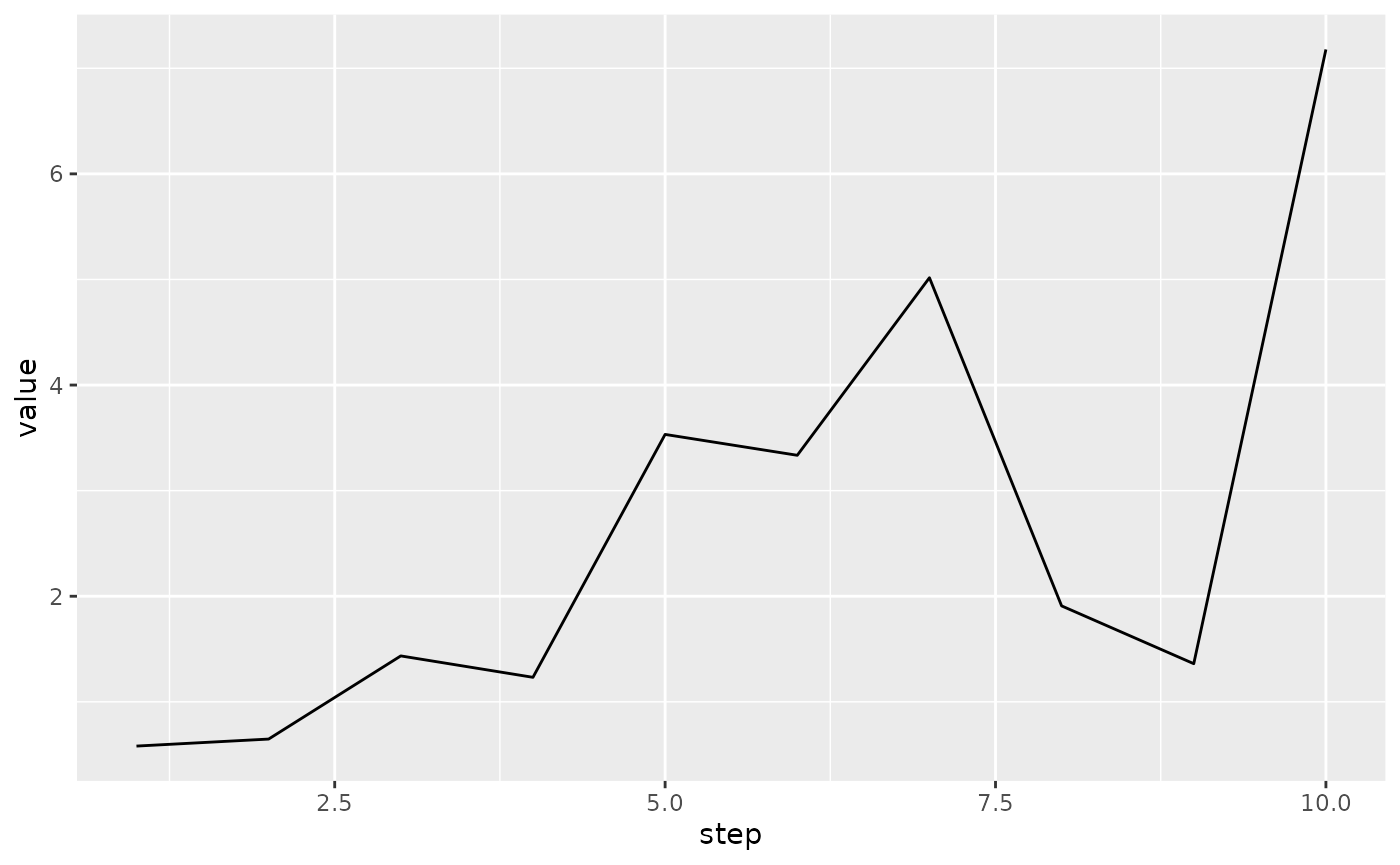
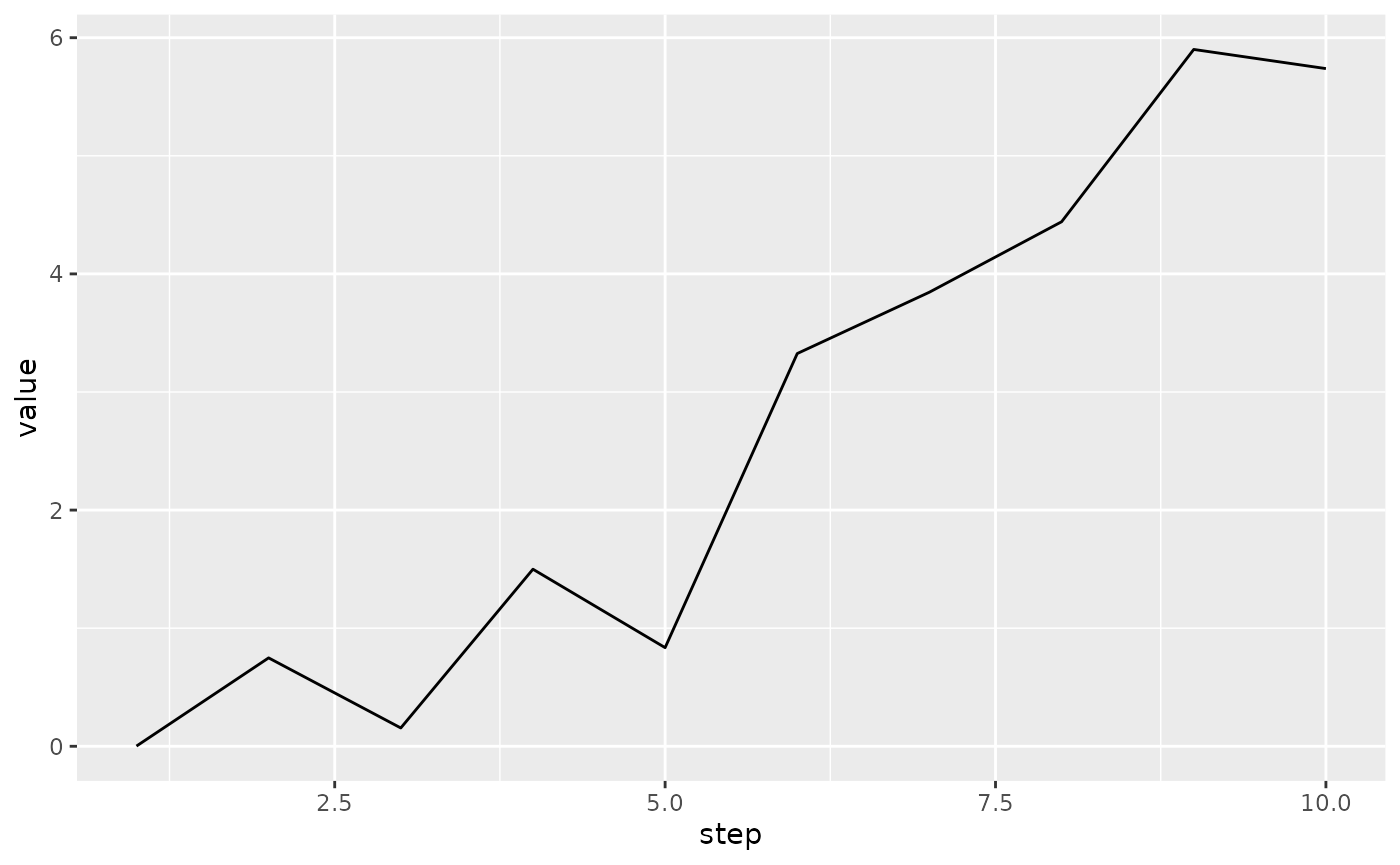
Deploying to gh-pages from @ mlverse/tfevents@44d94546bba93f44b7121c71480f31e4797dfe45 🚀

diff --git a/articles/read.html b/articles/read.html
@@ -178,52 +178,52 @@ matter the size of the summary_values vector that you pass.</p>
 <code class="sourceCode R"><span><span class="co"># we remove the first summary, as it's a text summary</span></span>
 <span><span class="fu"><a href="../reference/value.html">value</a></span><span class="op">(</span><span class="va">summaries</span><span class="op">$</span><span class="va">summary</span><span class="op">[</span><span class="op">-</span><span class="fl">1</span><span class="op">]</span>, as_list <span class="op">=</span> <span class="cn">TRUE</span><span class="op">)</span></span>
 <span><span class="co">#&gt; [[1]]</span></span>
-<span><span class="co">#&gt; [1] 0.5809893</span></span>
+<span><span class="co">#&gt; [1] 0.001632801</span></span>
 <span><span class="co">#&gt; </span></span>
 <span><span class="co">#&gt; [[2]]</span></span>
-<span><span class="co">#&gt; [1] 0.6474293</span></span>
+<span><span class="co">#&gt; [1] 0.7484521</span></span>
 <span><span class="co">#&gt; </span></span>
 <span><span class="co">#&gt; [[3]]</span></span>
-<span><span class="co">#&gt; [1] 1.434889</span></span>
+<span><span class="co">#&gt; [1] 0.155089</span></span>
 <span><span class="co">#&gt; </span></span>
 <span><span class="co">#&gt; [[4]]</span></span>
-<span><span class="co">#&gt; [1] 1.232181</span></span>
+<span><span class="co">#&gt; [1] 1.499293</span></span>
 <span><span class="co">#&gt; </span></span>
 <span><span class="co">#&gt; [[5]]</span></span>
-<span><span class="co">#&gt; [1] 3.532491</span></span>
+<span><span class="co">#&gt; [1] 0.8351706</span></span>
 <span><span class="co">#&gt; </span></span>
 <span><span class="co">#&gt; [[6]]</span></span>
-<span><span class="co">#&gt; [1] 3.334876</span></span>
+<span><span class="co">#&gt; [1] 3.32562</span></span>
 <span><span class="co">#&gt; </span></span>
 <span><span class="co">#&gt; [[7]]</span></span>
-<span><span class="co">#&gt; [1] 5.016222</span></span>
+<span><span class="co">#&gt; [1] 3.84518</span></span>
 <span><span class="co">#&gt; </span></span>
 <span><span class="co">#&gt; [[8]]</span></span>
-<span><span class="co">#&gt; [1] 1.908642</span></span>
+<span><span class="co">#&gt; [1] 4.44142</span></span>
 <span><span class="co">#&gt; </span></span>
 <span><span class="co">#&gt; [[9]]</span></span>
-<span><span class="co">#&gt; [1] 1.36121</span></span>
+<span><span class="co">#&gt; [1] 5.900636</span></span>
 <span><span class="co">#&gt; </span></span>
 <span><span class="co">#&gt; [[10]]</span></span>
-<span><span class="co">#&gt; [1] 7.178261</span></span></code></pre></div>
+<span><span class="co">#&gt; [1] 5.738484</span></span></code></pre></div>
 <p>If you are only interested in scalar summaries, you can use
 <code>type="scalar"</code> in <code>collect_events</code>:</p>
 <div class="sourceCode" id="cb8"><pre class="downlit sourceCode r">
 <code class="sourceCode R"><span><span class="va">scalars</span> <span class="op">&lt;-</span> <span class="fu"><a href="../reference/collect_events.html">collect_events</a></span><span class="op">(</span><span class="va">temp</span>, type <span class="op">=</span> <span class="st">"scalar"</span><span class="op">)</span></span>
 <span><span class="va">scalars</span></span>
 <span><span class="co">#&gt; <span style="color: #949494;"># A tibble: 10 × 7</span></span></span>
-<span><span class="co">#&gt;         event run    step    summary tag   plugin  value</span></span>
-<span><span class="co">#&gt;    <span style="color: #949494; font-style: italic;">&lt;tfvnts_v&gt;</span> <span style="color: #949494; font-style: italic;">&lt;chr&gt;</span> <span style="color: #949494; font-style: italic;">&lt;int&gt;</span> <span style="color: #949494; font-style: italic;">&lt;tfvnts__&gt;</span> <span style="color: #949494; font-style: italic;">&lt;chr&gt;</span> <span style="color: #949494; font-style: italic;">&lt;chr&gt;</span>   <span style="color: #949494; font-style: italic;">&lt;dbl&gt;</span></span></span>
-<span><span class="co">#&gt; <span style="color: #BCBCBC;"> 1</span>     &lt;./ 1&gt; .         1    &lt;hello&gt; hello scalars 0.581</span></span>
-<span><span class="co">#&gt; <span style="color: #BCBCBC;"> 2</span>     &lt;./ 2&gt; .         2    &lt;hello&gt; hello scalars 0.647</span></span>
-<span><span class="co">#&gt; <span style="color: #BCBCBC;"> 3</span>     &lt;./ 3&gt; .         3    &lt;hello&gt; hello scalars 1.43 </span></span>
-<span><span class="co">#&gt; <span style="color: #BCBCBC;"> 4</span>     &lt;./ 4&gt; .         4    &lt;hello&gt; hello scalars 1.23 </span></span>
-<span><span class="co">#&gt; <span style="color: #BCBCBC;"> 5</span>     &lt;./ 5&gt; .         5    &lt;hello&gt; hello scalars 3.53 </span></span>
-<span><span class="co">#&gt; <span style="color: #BCBCBC;"> 6</span>     &lt;./ 6&gt; .         6    &lt;hello&gt; hello scalars 3.33 </span></span>
-<span><span class="co">#&gt; <span style="color: #BCBCBC;"> 7</span>     &lt;./ 7&gt; .         7    &lt;hello&gt; hello scalars 5.02 </span></span>
-<span><span class="co">#&gt; <span style="color: #BCBCBC;"> 8</span>     &lt;./ 8&gt; .         8    &lt;hello&gt; hello scalars 1.91 </span></span>
-<span><span class="co">#&gt; <span style="color: #BCBCBC;"> 9</span>     &lt;./ 9&gt; .         9    &lt;hello&gt; hello scalars 1.36 </span></span>
-<span><span class="co">#&gt; <span style="color: #BCBCBC;">10</span>     &lt;./10&gt; .        10    &lt;hello&gt; hello scalars 7.18</span></span></code></pre></div>
+<span><span class="co">#&gt;         event run    step    summary tag   plugin    value</span></span>
+<span><span class="co">#&gt;    <span style="color: #949494; font-style: italic;">&lt;tfvnts_v&gt;</span> <span style="color: #949494; font-style: italic;">&lt;chr&gt;</span> <span style="color: #949494; font-style: italic;">&lt;int&gt;</span> <span style="color: #949494; font-style: italic;">&lt;tfvnts__&gt;</span> <span style="color: #949494; font-style: italic;">&lt;chr&gt;</span> <span style="color: #949494; font-style: italic;">&lt;chr&gt;</span>     <span style="color: #949494; font-style: italic;">&lt;dbl&gt;</span></span></span>
+<span><span class="co">#&gt; <span style="color: #BCBCBC;"> 1</span>     &lt;./ 1&gt; .         1    &lt;hello&gt; hello scalars 0.001<span style="text-decoration: underline;">63</span></span></span>
+<span><span class="co">#&gt; <span style="color: #BCBCBC;"> 2</span>     &lt;./ 2&gt; .         2    &lt;hello&gt; hello scalars 0.748  </span></span>
+<span><span class="co">#&gt; <span style="color: #BCBCBC;"> 3</span>     &lt;./ 3&gt; .         3    &lt;hello&gt; hello scalars 0.155  </span></span>
+<span><span class="co">#&gt; <span style="color: #BCBCBC;"> 4</span>     &lt;./ 4&gt; .         4    &lt;hello&gt; hello scalars 1.50   </span></span>
+<span><span class="co">#&gt; <span style="color: #BCBCBC;"> 5</span>     &lt;./ 5&gt; .         5    &lt;hello&gt; hello scalars 0.835  </span></span>
+<span><span class="co">#&gt; <span style="color: #BCBCBC;"> 6</span>     &lt;./ 6&gt; .         6    &lt;hello&gt; hello scalars 3.33   </span></span>
+<span><span class="co">#&gt; <span style="color: #BCBCBC;"> 7</span>     &lt;./ 7&gt; .         7    &lt;hello&gt; hello scalars 3.85   </span></span>
+<span><span class="co">#&gt; <span style="color: #BCBCBC;"> 8</span>     &lt;./ 8&gt; .         8    &lt;hello&gt; hello scalars 4.44   </span></span>
+<span><span class="co">#&gt; <span style="color: #BCBCBC;"> 9</span>     &lt;./ 9&gt; .         9    &lt;hello&gt; hello scalars 5.90   </span></span>
+<span><span class="co">#&gt; <span style="color: #BCBCBC;">10</span>     &lt;./10&gt; .        10    &lt;hello&gt; hello scalars 5.74</span></span></code></pre></div>
 <p>Now, values can be expanded in the data frame and you get a ready to
 use data frame, for example:</p>
 <div class="sourceCode" id="cb9"><pre class="downlit sourceCode r">
@@ -244,9 +244,9 @@ load events in smaller batches.</p>
 <code class="sourceCode R"><span><span class="va">con</span> <span class="op">&lt;-</span> <span class="fu"><a href="../reference/collect_events.html">events_logdir</a></span><span class="op">(</span><span class="va">temp</span><span class="op">)</span></span>
 <span><span class="fu"><a href="../reference/collect_events.html">collect_events</a></span><span class="op">(</span><span class="va">con</span>, n <span class="op">=</span> <span class="fl">1</span>, type <span class="op">=</span> <span class="st">"scalar"</span><span class="op">)</span></span>
 <span><span class="co">#&gt; <span style="color: #949494;"># A tibble: 1 × 7</span></span></span>
-<span><span class="co">#&gt;        event run    step    summary tag   plugin  value</span></span>
-<span><span class="co">#&gt;   <span style="color: #949494; font-style: italic;">&lt;tfvnts_v&gt;</span> <span style="color: #949494; font-style: italic;">&lt;chr&gt;</span> <span style="color: #949494; font-style: italic;">&lt;int&gt;</span> <span style="color: #949494; font-style: italic;">&lt;tfvnts__&gt;</span> <span style="color: #949494; font-style: italic;">&lt;chr&gt;</span> <span style="color: #949494; font-style: italic;">&lt;chr&gt;</span>   <span style="color: #949494; font-style: italic;">&lt;dbl&gt;</span></span></span>
-<span><span class="co">#&gt; <span style="color: #BCBCBC;">1</span>      &lt;./1&gt; .         1    &lt;hello&gt; hello scalars 0.581</span></span></code></pre></div>
+<span><span class="co">#&gt;        event run    step    summary tag   plugin    value</span></span>
+<span><span class="co">#&gt;   <span style="color: #949494; font-style: italic;">&lt;tfvnts_v&gt;</span> <span style="color: #949494; font-style: italic;">&lt;chr&gt;</span> <span style="color: #949494; font-style: italic;">&lt;int&gt;</span> <span style="color: #949494; font-style: italic;">&lt;tfvnts__&gt;</span> <span style="color: #949494; font-style: italic;">&lt;chr&gt;</span> <span style="color: #949494; font-style: italic;">&lt;chr&gt;</span>     <span style="color: #949494; font-style: italic;">&lt;dbl&gt;</span></span></span>
+<span><span class="co">#&gt; <span style="color: #BCBCBC;">1</span>      &lt;./1&gt; .         1    &lt;hello&gt; hello scalars 0.001<span style="text-decoration: underline;">63</span></span></span></code></pre></div>
 <p>Notice that the first call to <code>collect_events</code> collected
 the first scalar summary event in the directory because of
 <code>n = 1</code>. The next call will collect the remaining ones as by
@@ -256,15 +256,15 @@ default <code>n = NULL</code>.</p>
 <span><span class="co">#&gt; <span style="color: #949494;"># A tibble: 9 × 7</span></span></span>
 <span><span class="co">#&gt;        event run    step    summary tag   plugin  value</span></span>
 <span><span class="co">#&gt;   <span style="color: #949494; font-style: italic;">&lt;tfvnts_v&gt;</span> <span style="color: #949494; font-style: italic;">&lt;chr&gt;</span> <span style="color: #949494; font-style: italic;">&lt;int&gt;</span> <span style="color: #949494; font-style: italic;">&lt;tfvnts__&gt;</span> <span style="color: #949494; font-style: italic;">&lt;chr&gt;</span> <span style="color: #949494; font-style: italic;">&lt;chr&gt;</span>   <span style="color: #949494; font-style: italic;">&lt;dbl&gt;</span></span></span>
-<span><span class="co">#&gt; <span style="color: #BCBCBC;">1</span>     &lt;./ 2&gt; .         2    &lt;hello&gt; hello scalars 0.647</span></span>
-<span><span class="co">#&gt; <span style="color: #BCBCBC;">2</span>     &lt;./ 3&gt; .         3    &lt;hello&gt; hello scalars 1.43 </span></span>
-<span><span class="co">#&gt; <span style="color: #BCBCBC;">3</span>     &lt;./ 4&gt; .         4    &lt;hello&gt; hello scalars 1.23 </span></span>
-<span><span class="co">#&gt; <span style="color: #BCBCBC;">4</span>     &lt;./ 5&gt; .         5    &lt;hello&gt; hello scalars 3.53 </span></span>
+<span><span class="co">#&gt; <span style="color: #BCBCBC;">1</span>     &lt;./ 2&gt; .         2    &lt;hello&gt; hello scalars 0.748</span></span>
+<span><span class="co">#&gt; <span style="color: #BCBCBC;">2</span>     &lt;./ 3&gt; .         3    &lt;hello&gt; hello scalars 0.155</span></span>
+<span><span class="co">#&gt; <span style="color: #BCBCBC;">3</span>     &lt;./ 4&gt; .         4    &lt;hello&gt; hello scalars 1.50 </span></span>
+<span><span class="co">#&gt; <span style="color: #BCBCBC;">4</span>     &lt;./ 5&gt; .         5    &lt;hello&gt; hello scalars 0.835</span></span>
 <span><span class="co">#&gt; <span style="color: #BCBCBC;">5</span>     &lt;./ 6&gt; .         6    &lt;hello&gt; hello scalars 3.33 </span></span>
-<span><span class="co">#&gt; <span style="color: #BCBCBC;">6</span>     &lt;./ 7&gt; .         7    &lt;hello&gt; hello scalars 5.02 </span></span>
-<span><span class="co">#&gt; <span style="color: #BCBCBC;">7</span>     &lt;./ 8&gt; .         8    &lt;hello&gt; hello scalars 1.91 </span></span>
-<span><span class="co">#&gt; <span style="color: #BCBCBC;">8</span>     &lt;./ 9&gt; .         9    &lt;hello&gt; hello scalars 1.36 </span></span>
-<span><span class="co">#&gt; <span style="color: #BCBCBC;">9</span>     &lt;./10&gt; .        10    &lt;hello&gt; hello scalars 7.18</span></span></code></pre></div>
+<span><span class="co">#&gt; <span style="color: #BCBCBC;">6</span>     &lt;./ 7&gt; .         7    &lt;hello&gt; hello scalars 3.85 </span></span>
+<span><span class="co">#&gt; <span style="color: #BCBCBC;">7</span>     &lt;./ 8&gt; .         8    &lt;hello&gt; hello scalars 4.44 </span></span>
+<span><span class="co">#&gt; <span style="color: #BCBCBC;">8</span>     &lt;./ 9&gt; .         9    &lt;hello&gt; hello scalars 5.90 </span></span>
+<span><span class="co">#&gt; <span style="color: #BCBCBC;">9</span>     &lt;./10&gt; .        10    &lt;hello&gt; hello scalars 5.74</span></span></code></pre></div>
 <p>We can now log some more scalars and recollect, you will see that the
 events that were just written are now collected.</p>
 <div class="sourceCode" id="cb12"><pre class="downlit sourceCode r">
@@ -275,9 +275,9 @@ events that were just written are now collected.</p>
 <span><span class="co">#&gt; <span style="color: #949494;"># A tibble: 3 × 7</span></span></span>
 <span><span class="co">#&gt;        event run    step    summary tag   plugin  value</span></span>
 <span><span class="co">#&gt;   <span style="color: #949494; font-style: italic;">&lt;tfvnts_v&gt;</span> <span style="color: #949494; font-style: italic;">&lt;chr&gt;</span> <span style="color: #949494; font-style: italic;">&lt;int&gt;</span> <span style="color: #949494; font-style: italic;">&lt;tfvnts__&gt;</span> <span style="color: #949494; font-style: italic;">&lt;chr&gt;</span> <span style="color: #949494; font-style: italic;">&lt;chr&gt;</span>   <span style="color: #949494; font-style: italic;">&lt;dbl&gt;</span></span></span>
-<span><span class="co">#&gt; <span style="color: #BCBCBC;">1</span>     &lt;./11&gt; .        11    &lt;hello&gt; hello scalars 0.770</span></span>
-<span><span class="co">#&gt; <span style="color: #BCBCBC;">2</span>     &lt;./12&gt; .        12    &lt;hello&gt; hello scalars 0.785</span></span>
-<span><span class="co">#&gt; <span style="color: #BCBCBC;">3</span>     &lt;./13&gt; .        13    &lt;hello&gt; hello scalars 0.629</span></span></code></pre></div>
+<span><span class="co">#&gt; <span style="color: #BCBCBC;">1</span>     &lt;./11&gt; .        11    &lt;hello&gt; hello scalars 0.539</span></span>
+<span><span class="co">#&gt; <span style="color: #BCBCBC;">2</span>     &lt;./12&gt; .        12    &lt;hello&gt; hello scalars 0.162</span></span>
+<span><span class="co">#&gt; <span style="color: #BCBCBC;">3</span>     &lt;./13&gt; .        13    &lt;hello&gt; hello scalars 2.82</span></span></code></pre></div>
 <p>This interface allows you to efficiently read tfevents records
 without having them all on RAM at once, or work in a streaming way in a
 sense that a process might be writing tfevents (for example in a

diff --git a/articles/hparams.html b/articles/hparams.html
@@ -197,80 +197,80 @@ sets of hyperparameters.</p>
 <code>temp</code> will be filled with event files.</p>
 <div class="sourceCode" id="cb7"><pre class="downlit sourceCode r">
 <code class="sourceCode R"><span><span class="fu">fs</span><span class="fu">::</span><span class="fu"><a href="https://fs.r-lib.org/reference/dir_tree.html" class="external-link">dir_tree</a></span><span class="op">(</span><span class="va">temp</span><span class="op">)</span></span>
-<span><span class="co">#&gt; <span style="color: #0000BB; font-weight: bold;">/tmp/RtmpHjZciD/logdir1a6936c532d</span></span></span>
-<span><span class="co">#&gt; ├── <span style="color: #0000BB; font-weight: bold;">ballggycqmbbayz</span></span></span>
-<span><span class="co">#&gt; │   ├── events.out.tfevents.1677748114.v2</span></span>
+<span><span class="co">#&gt; <span style="color: #0000BB; font-weight: bold;">/tmp/RtmpNZwuXs/logdir1b484742769b</span></span></span>
+<span><span class="co">#&gt; ├── <span style="color: #0000BB; font-weight: bold;">bulwbjqdtyzjioj</span></span></span>
+<span><span class="co">#&gt; │   ├── events.out.tfevents.1678202326.v2</span></span>
 <span><span class="co">#&gt; │   ├── <span style="color: #0000BB; font-weight: bold;">train</span></span></span>
-<span><span class="co">#&gt; │   │   └── events.out.tfevents.1677748114.v2</span></span>
+<span><span class="co">#&gt; │   │   └── events.out.tfevents.1678202326.v2</span></span>
 <span><span class="co">#&gt; │   └── <span style="color: #0000BB; font-weight: bold;">valid</span></span></span>
-<span><span class="co">#&gt; │       └── events.out.tfevents.1677748114.v2</span></span>
-<span><span class="co">#&gt; ├── <span style="color: #0000BB; font-weight: bold;">dqmiqksmjxnaqnr</span></span></span>
-<span><span class="co">#&gt; │   ├── events.out.tfevents.1677748113.v2</span></span>
+<span><span class="co">#&gt; │       └── events.out.tfevents.1678202326.v2</span></span>
+<span><span class="co">#&gt; ├── <span style="color: #0000BB; font-weight: bold;">bvwgvcvjmkcoufp</span></span></span>
+<span><span class="co">#&gt; │   ├── events.out.tfevents.1678202326.v2</span></span>
 <span><span class="co">#&gt; │   ├── <span style="color: #0000BB; font-weight: bold;">train</span></span></span>
-<span><span class="co">#&gt; │   │   └── events.out.tfevents.1677748113.v2</span></span>
+<span><span class="co">#&gt; │   │   └── events.out.tfevents.1678202326.v2</span></span>
 <span><span class="co">#&gt; │   └── <span style="color: #0000BB; font-weight: bold;">valid</span></span></span>
-<span><span class="co">#&gt; │       └── events.out.tfevents.1677748113.v2</span></span>
-<span><span class="co">#&gt; ├── events.out.tfevents.1677748112.v2</span></span>
-<span><span class="co">#&gt; ├── <span style="color: #0000BB; font-weight: bold;">fcwxtfrtdmqofeg</span></span></span>
-<span><span class="co">#&gt; │   ├── events.out.tfevents.1677748114.v2</span></span>
+<span><span class="co">#&gt; │       └── events.out.tfevents.1678202326.v2</span></span>
+<span><span class="co">#&gt; ├── <span style="color: #0000BB; font-weight: bold;">dkvetxhhcgvmezv</span></span></span>
+<span><span class="co">#&gt; │   ├── events.out.tfevents.1678202327.v2</span></span>
 <span><span class="co">#&gt; │   ├── <span style="color: #0000BB; font-weight: bold;">train</span></span></span>
-<span><span class="co">#&gt; │   │   └── events.out.tfevents.1677748114.v2</span></span>
+<span><span class="co">#&gt; │   │   └── events.out.tfevents.1678202327.v2</span></span>
 <span><span class="co">#&gt; │   └── <span style="color: #0000BB; font-weight: bold;">valid</span></span></span>
-<span><span class="co">#&gt; │       └── events.out.tfevents.1677748114.v2</span></span>
-<span><span class="co">#&gt; ├── <span style="color: #0000BB; font-weight: bold;">fjzdzbfmulwoxxc</span></span></span>
-<span><span class="co">#&gt; │   ├── events.out.tfevents.1677748113.v2</span></span>
+<span><span class="co">#&gt; │       └── events.out.tfevents.1678202327.v2</span></span>
+<span><span class="co">#&gt; ├── events.out.tfevents.1678202325.v2</span></span>
+<span><span class="co">#&gt; ├── <span style="color: #0000BB; font-weight: bold;">fewfcpbsdbyckqb</span></span></span>
+<span><span class="co">#&gt; │   ├── events.out.tfevents.1678202325.v2</span></span>
 <span><span class="co">#&gt; │   ├── <span style="color: #0000BB; font-weight: bold;">train</span></span></span>
-<span><span class="co">#&gt; │   │   └── events.out.tfevents.1677748113.v2</span></span>
+<span><span class="co">#&gt; │   │   └── events.out.tfevents.1678202325.v2</span></span>
 <span><span class="co">#&gt; │   └── <span style="color: #0000BB; font-weight: bold;">valid</span></span></span>
-<span><span class="co">#&gt; │       └── events.out.tfevents.1677748113.v2</span></span>
-<span><span class="co">#&gt; ├── <span style="color: #0000BB; font-weight: bold;">lheunooutynlrfh</span></span></span>
-<span><span class="co">#&gt; │   ├── events.out.tfevents.1677748112.v2</span></span>
+<span><span class="co">#&gt; │       └── events.out.tfevents.1678202325.v2</span></span>
+<span><span class="co">#&gt; ├── <span style="color: #0000BB; font-weight: bold;">gccyuvniaofrfyg</span></span></span>
+<span><span class="co">#&gt; │   ├── events.out.tfevents.1678202325.v2</span></span>
 <span><span class="co">#&gt; │   ├── <span style="color: #0000BB; font-weight: bold;">train</span></span></span>
-<span><span class="co">#&gt; │   │   └── events.out.tfevents.1677748112.v2</span></span>
+<span><span class="co">#&gt; │   │   └── events.out.tfevents.1678202325.v2</span></span>
 <span><span class="co">#&gt; │   └── <span style="color: #0000BB; font-weight: bold;">valid</span></span></span>
-<span><span class="co">#&gt; │       └── events.out.tfevents.1677748112.v2</span></span>
-<span><span class="co">#&gt; ├── <span style="color: #0000BB; font-weight: bold;">mxlibjykjgkyyrf</span></span></span>
-<span><span class="co">#&gt; │   ├── events.out.tfevents.1677748112.v2</span></span>
+<span><span class="co">#&gt; │       └── events.out.tfevents.1678202325.v2</span></span>
+<span><span class="co">#&gt; ├── <span style="color: #0000BB; font-weight: bold;">hcghfwtvmtiszzt</span></span></span>
+<span><span class="co">#&gt; │   ├── events.out.tfevents.1678202325.v2</span></span>
 <span><span class="co">#&gt; │   ├── <span style="color: #0000BB; font-weight: bold;">train</span></span></span>
-<span><span class="co">#&gt; │   │   └── events.out.tfevents.1677748112.v2</span></span>
+<span><span class="co">#&gt; │   │   └── events.out.tfevents.1678202325.v2</span></span>
 <span><span class="co">#&gt; │   └── <span style="color: #0000BB; font-weight: bold;">valid</span></span></span>
-<span><span class="co">#&gt; │       └── events.out.tfevents.1677748112.v2</span></span>
-<span><span class="co">#&gt; ├── <span style="color: #0000BB; font-weight: bold;">orkivwpymrkepbm</span></span></span>
-<span><span class="co">#&gt; │   ├── events.out.tfevents.1677748113.v2</span></span>
+<span><span class="co">#&gt; │       └── events.out.tfevents.1678202325.v2</span></span>
+<span><span class="co">#&gt; ├── <span style="color: #0000BB; font-weight: bold;">kskdggiokbitjoh</span></span></span>
+<span><span class="co">#&gt; │   ├── events.out.tfevents.1678202327.v2</span></span>
 <span><span class="co">#&gt; │   ├── <span style="color: #0000BB; font-weight: bold;">train</span></span></span>
-<span><span class="co">#&gt; │   │   └── events.out.tfevents.1677748113.v2</span></span>
+<span><span class="co">#&gt; │   │   └── events.out.tfevents.1678202327.v2</span></span>
 <span><span class="co">#&gt; │   └── <span style="color: #0000BB; font-weight: bold;">valid</span></span></span>
-<span><span class="co">#&gt; │       └── events.out.tfevents.1677748113.v2</span></span>
-<span><span class="co">#&gt; ├── <span style="color: #0000BB; font-weight: bold;">plizizgodwuzagm</span></span></span>
-<span><span class="co">#&gt; │   ├── events.out.tfevents.1677748114.v2</span></span>
+<span><span class="co">#&gt; │       └── events.out.tfevents.1678202327.v2</span></span>
+<span><span class="co">#&gt; ├── <span style="color: #0000BB; font-weight: bold;">owwyzahluepbivk</span></span></span>
+<span><span class="co">#&gt; │   ├── events.out.tfevents.1678202325.v2</span></span>
 <span><span class="co">#&gt; │   ├── <span style="color: #0000BB; font-weight: bold;">train</span></span></span>
-<span><span class="co">#&gt; │   │   └── events.out.tfevents.1677748114.v2</span></span>
+<span><span class="co">#&gt; │   │   └── events.out.tfevents.1678202325.v2</span></span>
 <span><span class="co">#&gt; │   └── <span style="color: #0000BB; font-weight: bold;">valid</span></span></span>
-<span><span class="co">#&gt; │       └── events.out.tfevents.1677748114.v2</span></span>
-<span><span class="co">#&gt; ├── <span style="color: #0000BB; font-weight: bold;">qrztwahhwkczjbo</span></span></span>
-<span><span class="co">#&gt; │   ├── events.out.tfevents.1677748114.v2</span></span>
+<span><span class="co">#&gt; │       └── events.out.tfevents.1678202325.v2</span></span>
+<span><span class="co">#&gt; ├── <span style="color: #0000BB; font-weight: bold;">puwmvguaanhznio</span></span></span>
+<span><span class="co">#&gt; │   ├── events.out.tfevents.1678202326.v2</span></span>
 <span><span class="co">#&gt; │   ├── <span style="color: #0000BB; font-weight: bold;">train</span></span></span>
-<span><span class="co">#&gt; │   │   └── events.out.tfevents.1677748114.v2</span></span>
+<span><span class="co">#&gt; │   │   └── events.out.tfevents.1678202326.v2</span></span>
 <span><span class="co">#&gt; │   └── <span style="color: #0000BB; font-weight: bold;">valid</span></span></span>
-<span><span class="co">#&gt; │       └── events.out.tfevents.1677748114.v2</span></span>
-<span><span class="co">#&gt; ├── <span style="color: #0000BB; font-weight: bold;">xpruqozgfbpzjtm</span></span></span>
-<span><span class="co">#&gt; │   ├── events.out.tfevents.1677748113.v2</span></span>
+<span><span class="co">#&gt; │       └── events.out.tfevents.1678202326.v2</span></span>
+<span><span class="co">#&gt; ├── <span style="color: #0000BB; font-weight: bold;">uajwwwsqmbzaxxw</span></span></span>
+<span><span class="co">#&gt; │   ├── events.out.tfevents.1678202326.v2</span></span>
 <span><span class="co">#&gt; │   ├── <span style="color: #0000BB; font-weight: bold;">train</span></span></span>
-<span><span class="co">#&gt; │   │   └── events.out.tfevents.1677748113.v2</span></span>
+<span><span class="co">#&gt; │   │   └── events.out.tfevents.1678202326.v2</span></span>
 <span><span class="co">#&gt; │   └── <span style="color: #0000BB; font-weight: bold;">valid</span></span></span>
-<span><span class="co">#&gt; │       └── events.out.tfevents.1677748113.v2</span></span>
-<span><span class="co">#&gt; ├── <span style="color: #0000BB; font-weight: bold;">xxwmpuftujczeao</span></span></span>
-<span><span class="co">#&gt; │   ├── events.out.tfevents.1677748112.v2</span></span>
+<span><span class="co">#&gt; │       └── events.out.tfevents.1678202326.v2</span></span>
+<span><span class="co">#&gt; ├── <span style="color: #0000BB; font-weight: bold;">vhhoqzdtkjyefls</span></span></span>
+<span><span class="co">#&gt; │   ├── events.out.tfevents.1678202326.v2</span></span>
 <span><span class="co">#&gt; │   ├── <span style="color: #0000BB; font-weight: bold;">train</span></span></span>
-<span><span class="co">#&gt; │   │   └── events.out.tfevents.1677748112.v2</span></span>
+<span><span class="co">#&gt; │   │   └── events.out.tfevents.1678202326.v2</span></span>
 <span><span class="co">#&gt; │   └── <span style="color: #0000BB; font-weight: bold;">valid</span></span></span>
-<span><span class="co">#&gt; │       └── events.out.tfevents.1677748112.v2</span></span>
-<span><span class="co">#&gt; └── <span style="color: #0000BB; font-weight: bold;">ykbskrptvgaouyg</span></span></span>
-<span><span class="co">#&gt;     ├── events.out.tfevents.1677748113.v2</span></span>
+<span><span class="co">#&gt; │       └── events.out.tfevents.1678202326.v2</span></span>
+<span><span class="co">#&gt; └── <span style="color: #0000BB; font-weight: bold;">ydprwvapjrulmug</span></span></span>
+<span><span class="co">#&gt;     ├── events.out.tfevents.1678202327.v2</span></span>
 <span><span class="co">#&gt;     ├── <span style="color: #0000BB; font-weight: bold;">train</span></span></span>
-<span><span class="co">#&gt;     │   └── events.out.tfevents.1677748113.v2</span></span>
+<span><span class="co">#&gt;     │   └── events.out.tfevents.1678202327.v2</span></span>
 <span><span class="co">#&gt;     └── <span style="color: #0000BB; font-weight: bold;">valid</span></span></span>
-<span><span class="co">#&gt;         └── events.out.tfevents.1677748113.v2</span></span></code></pre></div>
+<span><span class="co">#&gt;         └── events.out.tfevents.1678202327.v2</span></span></code></pre></div>
 <p>Finally, we can visualize the experiment results in TensorBoard:</p>
 <div class="sourceCode" id="cb8"><pre class="downlit sourceCode r">
 <code class="sourceCode R"><span><span class="fu">tensorflow</span><span class="fu">::</span><span class="fu"><a href="https://rdrr.io/pkg/tensorflow/man/tensorboard.html" class="external-link">tensorboard</a></span><span class="op">(</span><span class="va">temp</span>, port <span class="op">=</span> <span class="fl">6060</span><span class="op">)</span></span>

diff --git a/reference/collect_events.html b/reference/collect_events.html
@@ -135,13 +135,13 @@ to read further events later.</p></li>
 <span class="r-in"><span><span class="co"># collect only scalar events</span></span></span>
 <span class="r-in"><span><span class="fu">collect_events</span><span class="op">(</span><span class="va">temp</span>, type <span class="op">=</span> <span class="st">"scalar"</span><span class="op">)</span></span></span>
 <span class="r-out co"><span class="r-pr">#&gt;</span> <span style="color: #949494;"># A tibble: 5 × 7</span></span>
-<span class="r-out co"><span class="r-pr">#&gt;</span>        event run    step    summary tag    plugin    value</span>
-<span class="r-out co"><span class="r-pr">#&gt;</span>   <span style="color: #949494; font-style: italic;">&lt;tfvnts_v&gt;</span> <span style="color: #949494; font-style: italic;">&lt;chr&gt;</span> <span style="color: #949494; font-style: italic;">&lt;int&gt;</span> <span style="color: #949494; font-style: italic;">&lt;tfvnts__&gt;</span> <span style="color: #949494; font-style: italic;">&lt;chr&gt;</span>  <span style="color: #949494; font-style: italic;">&lt;chr&gt;</span>     <span style="color: #949494; font-style: italic;">&lt;dbl&gt;</span></span>
-<span class="r-out co"><span class="r-pr">#&gt;</span> <span style="color: #BCBCBC;">1</span>      &lt;./0&gt; .         0   &lt;my_log&gt; my_log scalars 0.383  </span>
-<span class="r-out co"><span class="r-pr">#&gt;</span> <span style="color: #BCBCBC;">2</span>      &lt;./1&gt; .         1   &lt;my_log&gt; my_log scalars 0.176  </span>
-<span class="r-out co"><span class="r-pr">#&gt;</span> <span style="color: #BCBCBC;">3</span>      &lt;./2&gt; .         2   &lt;my_log&gt; my_log scalars 0.707  </span>
-<span class="r-out co"><span class="r-pr">#&gt;</span> <span style="color: #BCBCBC;">4</span>      &lt;./3&gt; .         3   &lt;my_log&gt; my_log scalars 0.395  </span>
-<span class="r-out co"><span class="r-pr">#&gt;</span> <span style="color: #BCBCBC;">5</span>      &lt;./4&gt; .         4   &lt;my_log&gt; my_log scalars 0.006<span style="text-decoration: underline;">87</span></span>
+<span class="r-out co"><span class="r-pr">#&gt;</span>        event run    step    summary tag    plugin  value</span>
+<span class="r-out co"><span class="r-pr">#&gt;</span>   <span style="color: #949494; font-style: italic;">&lt;tfvnts_v&gt;</span> <span style="color: #949494; font-style: italic;">&lt;chr&gt;</span> <span style="color: #949494; font-style: italic;">&lt;int&gt;</span> <span style="color: #949494; font-style: italic;">&lt;tfvnts__&gt;</span> <span style="color: #949494; font-style: italic;">&lt;chr&gt;</span>  <span style="color: #949494; font-style: italic;">&lt;chr&gt;</span>   <span style="color: #949494; font-style: italic;">&lt;dbl&gt;</span></span>
+<span class="r-out co"><span class="r-pr">#&gt;</span> <span style="color: #BCBCBC;">1</span>      &lt;./0&gt; .         0   &lt;my_log&gt; my_log scalars 0.763</span>
+<span class="r-out co"><span class="r-pr">#&gt;</span> <span style="color: #BCBCBC;">2</span>      &lt;./1&gt; .         1   &lt;my_log&gt; my_log scalars 0.925</span>
+<span class="r-out co"><span class="r-pr">#&gt;</span> <span style="color: #BCBCBC;">3</span>      &lt;./2&gt; .         2   &lt;my_log&gt; my_log scalars 0.702</span>
+<span class="r-out co"><span class="r-pr">#&gt;</span> <span style="color: #BCBCBC;">4</span>      &lt;./3&gt; .         3   &lt;my_log&gt; my_log scalars 0.119</span>
+<span class="r-out co"><span class="r-pr">#&gt;</span> <span style="color: #BCBCBC;">5</span>      &lt;./4&gt; .         4   &lt;my_log&gt; my_log scalars 0.830</span>
 <span class="r-in"><span></span></span>
 </code></pre></div>
     </div>

diff --git a/reference/get_default_logdir.html b/reference/get_default_logdir.html
@@ -115,7 +115,7 @@ at every call. These functions allow you to query and the current logdir.</p>
 <span class="r-in"><span><span class="fu">with_logdir</span><span class="op">(</span><span class="va">temp</span>, <span class="op">{</span></span></span>
 <span class="r-in"><span> <span class="fu"><a href="https://rdrr.io/r/base/print.html" class="external-link">print</a></span><span class="op">(</span><span class="fu">get_default_logdir</span><span class="op">(</span><span class="op">)</span><span class="op">)</span></span></span>
 <span class="r-in"><span><span class="op">}</span><span class="op">)</span></span></span>
-<span class="r-out co"><span class="r-pr">#&gt;</span> [1] "/tmp/RtmpNfp7LD/file18c87452315f"</span>
+<span class="r-out co"><span class="r-pr">#&gt;</span> [1] "/tmp/Rtmp25DGbz/file19aa11a4e191"</span>
 </code></pre></div>
     </div>
   </main><aside class="col-md-3"><nav id="toc"><h2>On this page</h2>

diff --git a/reference/value.html b/reference/value.html
@@ -119,7 +119,7 @@ scalar.</p>
 <span class="r-in"><span><span class="co"># iterate over all events</span></span></span>
 <span class="r-in"><span><span class="va">summary</span> <span class="op">&lt;-</span> <span class="fu"><a href="collect_events.html">collect_events</a></span><span class="op">(</span><span class="va">temp</span>, n <span class="op">=</span> <span class="fl">1</span>, type <span class="op">=</span> <span class="st">"summary"</span><span class="op">)</span></span></span>
 <span class="r-in"><span><span class="fu">value</span><span class="op">(</span><span class="va">summary</span><span class="op">$</span><span class="va">summary</span><span class="op">)</span></span></span>
-<span class="r-out co"><span class="r-pr">#&gt;</span> [1] 0.3222128</span>
+<span class="r-out co"><span class="r-pr">#&gt;</span> [1] 0.5876147</span>
 <span class="r-in"><span></span></span>
 </code></pre></div>
     </div>

diff --git a/news/index.html b/news/index.html
@@ -57,7 +57,7 @@
     </div>
 
     <div class="section level2">
-<h2 class="pkg-version" data-toc-text="0.0.2" id="tfevents-002">tfevents 0.0.2<a class="anchor" aria-label="anchor" href="#tfevents-002"></a></h2>
+<h2 class="pkg-version" data-toc-text="0.0.2" id="tfevents-002">tfevents 0.0.2<a class="anchor" aria-label="anchor" href="#tfevents-002"></a></h2><p class="text-muted">CRAN release: 2023-03-07</p>
 <ul><li>Fix CRAN warnings for GCC13 and UBSAN issues.</li>
 </ul></div>
     <div class="section level2">
